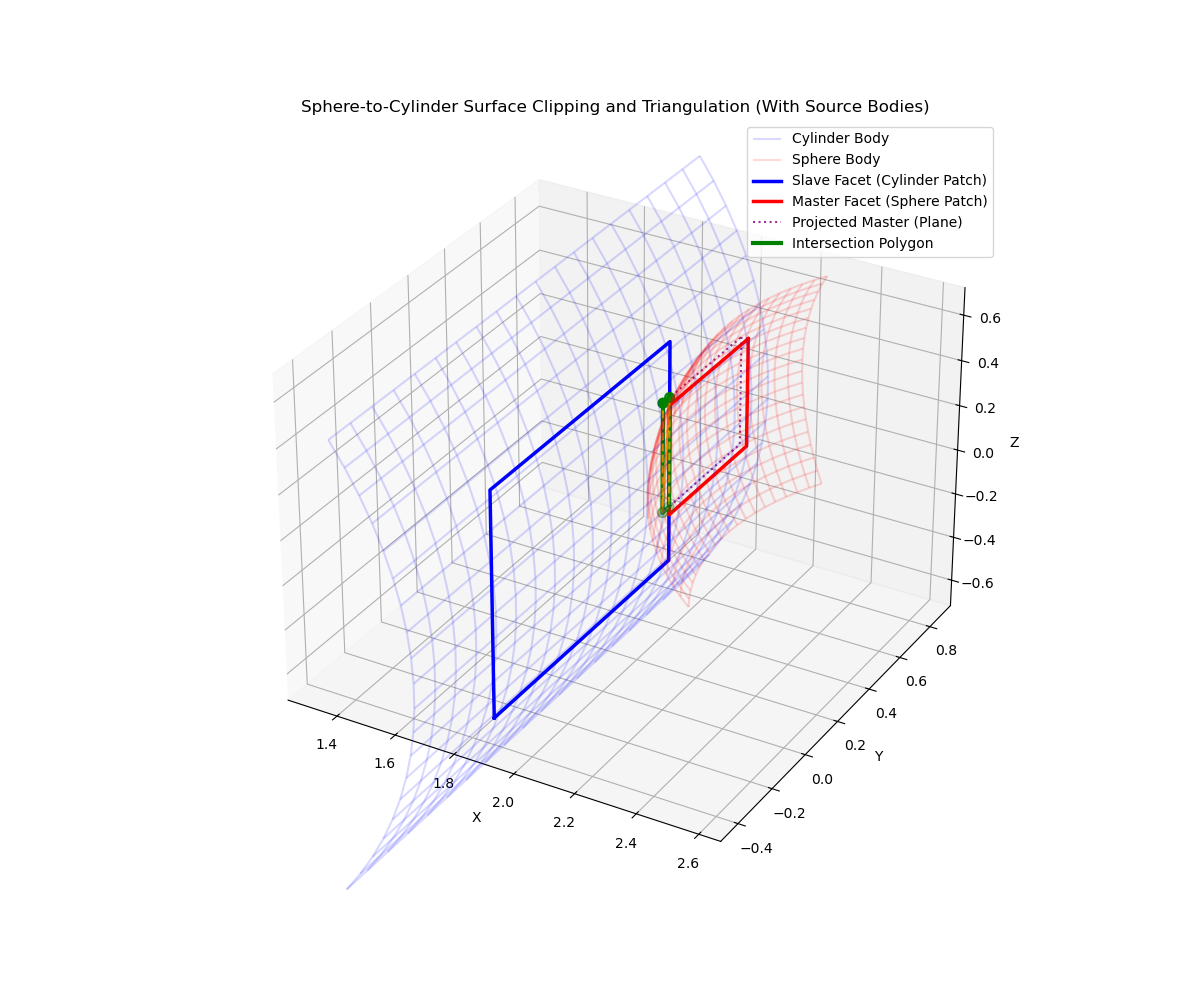
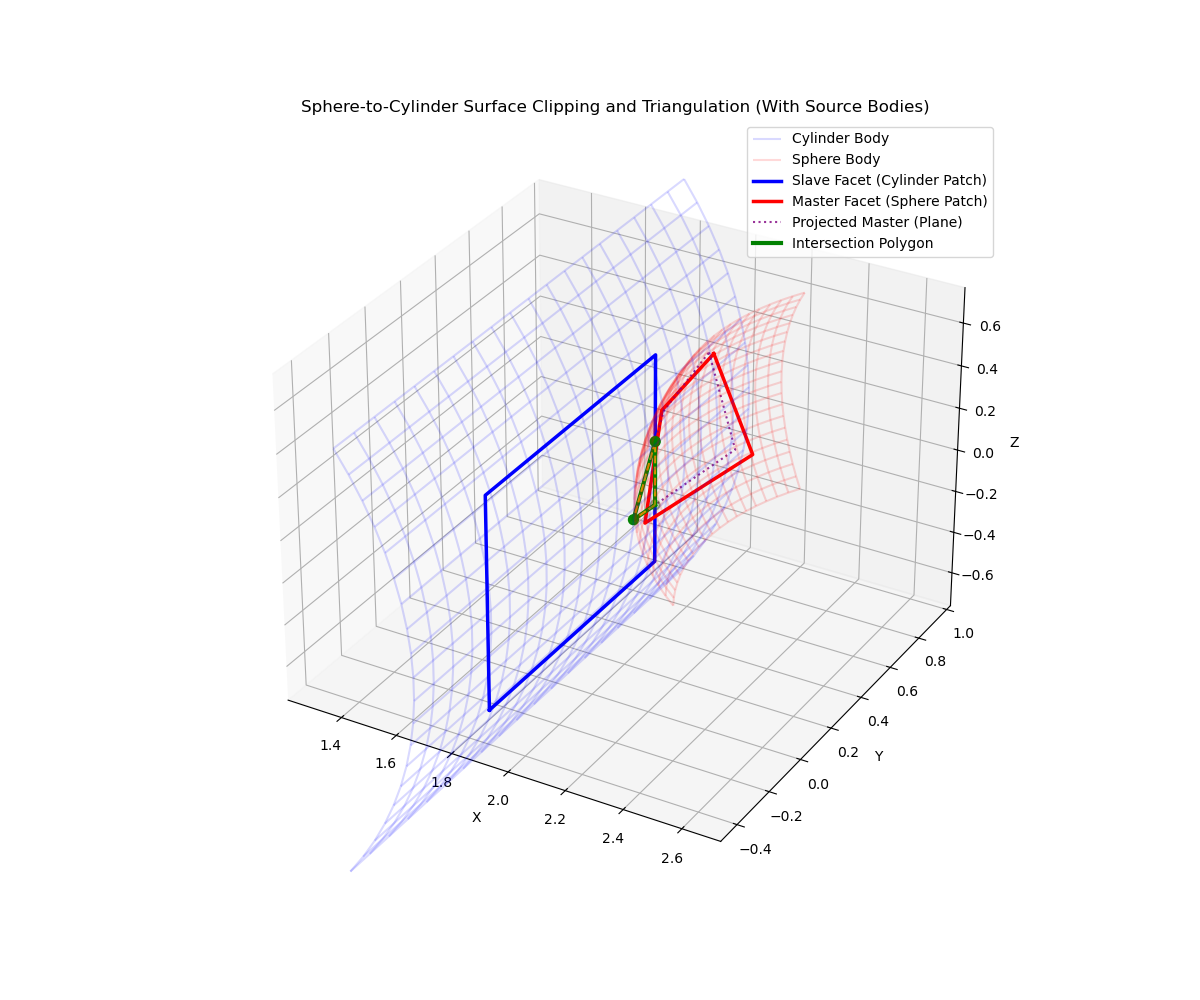
Added close-up plot and printed node coordinates for skewed contact verification

diff --git a/testfiles/mortar_tests/test3_mortar_intersection/cylinder_sphere.py b/testfiles/mortar_tests/test3_mortar_intersection/cylinder_sphere.py
@@ -34,24 +34,34 @@ def test_curved_cylinder_sphere_projection():
     # y = c_y + r * sin(theta) * sin(phi)
     # z = c_z + r * cos(theta)
     # Let's generate a patch facing the cylinder (facing -X direction: phi = pi)
-    # We shift c_sphere by +0.6 in the Y direction so that the master facet
-    # only partially overlaps (about 1/3) with the slave cylinder patch.
+    # We shift c_sphere by +0.6 in the Y direction and tilt/rotate it around Z axis
+    # to make the master element skewed and non-aligned in 3D space.
     r_sphere = 1.0
     c_sphere = np.array([2.9, 0.7, 0.0])
     
-    # We choose four points around theta = pi/2, phi = pi
+    # We choose four points around theta = pi/2, phi = pi, and tilt the patch by adding/subtracting skew offsets
     d_theta = 0.25
     d_phi = 0.25
     master_nodes_3d = []
-    for t_val, p_val in [(np.pi/2 - d_theta, np.pi - d_phi),
-                          (np.pi/2 + d_theta, np.pi - d_phi),
-                          (np.pi/2 + d_theta, np.pi + d_phi),
-                          (np.pi/2 - d_theta, np.pi + d_phi)]:
+    # Adding theta/phi tilting variations to skew it
+    for t_val, p_val in [(np.pi/2 - d_theta - 0.05, np.pi - d_phi + 0.1),
+                          (np.pi/2 + d_theta + 0.05, np.pi - d_phi - 0.1),
+                          (np.pi/2 + d_theta - 0.05, np.pi + d_phi + 0.1),
+                          (np.pi/2 - d_theta + 0.05, np.pi + d_phi - 0.1)]:
         x = c_sphere[0] + r_sphere * np.sin(t_val) * np.cos(p_val)
         y = c_sphere[1] + r_sphere * np.sin(t_val) * np.sin(p_val)
         z = c_sphere[2] + r_sphere * np.cos(t_val)
         master_nodes_3d.append([x, y, z])
     master_nodes_3d = np.array(master_nodes_3d)
+    
+    # Print the coordinates of both elements for user inspection
+    print("\n================ CURVED INTERSECTION COORDINATES ================")
+    print("Slave (Cylinder Patch) Corner Coordinates:")
+    for idx, pt in enumerate(slave_nodes_3d):
+        print(f"  Node {idx+1}: [{pt[0]:.6f}, {pt[1]:.6f}, {pt[2]:.6f}]")
+    print("\nMaster (Sphere Patch - Tilted/Skewed) Corner Coordinates:")
+    for idx, pt in enumerate(master_nodes_3d):
+        print(f"  Node {idx+1}: [{pt[0]:.6f}, {pt[1]:.6f}, {pt[2]:.6f}]")
     
     # 1. Define the auxiliary plane based on the slave element's centroid and area-weighted normal
     p0 = np.mean(slave_nodes_3d, axis=0)
@@ -188,6 +198,50 @@ def test_curved_cylinder_sphere_projection():
     output_overview = os.path.join(output_dir, 'cylinder_sphere_overview.png')
     plt.savefig(output_overview)
     print(f"Saved cylinder-sphere overview plot to: {output_overview}")
+
+    # Generate THIRD CLOSE-UP PLOT showing only the two contact patch facets and their intersection
+    fig3 = plt.figure(figsize=(10, 8))
+    ax3 = fig3.add_subplot(111, projection='3d')
+
+    # Plot Slave element (Cylinder patch)
+    ax3.plot(slave_poly[:, 0], slave_poly[:, 1], slave_poly[:, 2], 'blue', label='Slave Facet (Cylinder Patch)', linewidth=2.5)
+    
+    # Plot Master element (Sphere patch)
+    ax3.plot(master_poly[:, 0], master_poly[:, 1], master_poly[:, 2], 'red', label='Master Facet (Sphere Patch)', linewidth=2.5)
+    
+    # Plot projected Master element
+    ax3.plot(proj_master_poly[:, 0], proj_master_poly[:, 1], proj_master_poly[:, 2], 'purple', linestyle=':', label='Projected Master (Plane)', alpha=0.8)
+    
+    # Plot intersection result
+    if len(clip_result_3d) > 0:
+        ax3.plot(clip_poly[:, 0], clip_poly[:, 1], clip_poly[:, 2], 'green', label='Intersection Polygon', linewidth=3)
+        ax3.scatter(clip_result_3d[:, 0], clip_result_3d[:, 1], clip_result_3d[:, 2], color='green', s=50)
+        
+        # Plot triangulation sub-cells
+        for tri in triangles_2d:
+            tri_3d = to_3d_coords(tri, p0, t1, t2)
+            tri_poly = np.vstack([tri_3d, tri_3d[0]])
+            ax3.plot(tri_poly[:, 0], tri_poly[:, 1], tri_poly[:, 2], 'orange', linestyle='--', alpha=0.8)
+            
+        print("\nClipped Intersection Polygon Corner Coordinates (Auxiliary Plane):")
+        for idx, pt in enumerate(clip_result_3d):
+            print(f"  Intersection Node {idx+1}: [{pt[0]:.6f}, {pt[1]:.6f}, {pt[2]:.6f}]")
+
+    ax3.set_xlabel('X')
+    ax3.set_ylabel('Y')
+    ax3.set_zlabel('Z')
+    ax3.set_title('Close-Up: Master & Slave Facets and Intersection')
+    ax3.legend()
+
+    # Equal scaling boundaries focused only on elements coordinates
+    max_range = np.array([all_nodes[:,0].max()-all_nodes[:,0].min(), all_nodes[:,1].max()-all_nodes[:,1].min(), all_nodes[:,2].max()-all_nodes[:,2].min()]).max() / 2.0
+    ax3.set_xlim(mid_x - max_range, mid_x + max_range)
+    ax3.set_ylim(mid_y - max_range, mid_y + max_range)
+    ax3.set_zlim(mid_z - max_range, mid_z + max_range)
+
+    output_closeup = os.path.join(output_dir, 'cylinder_sphere_closeup.png')
+    plt.savefig(output_closeup)
+    print(f"Saved cylinder-sphere close-up plot to: {output_closeup}")
 
 if __name__ == '__main__':
     test_curved_cylinder_sphere_projection()
